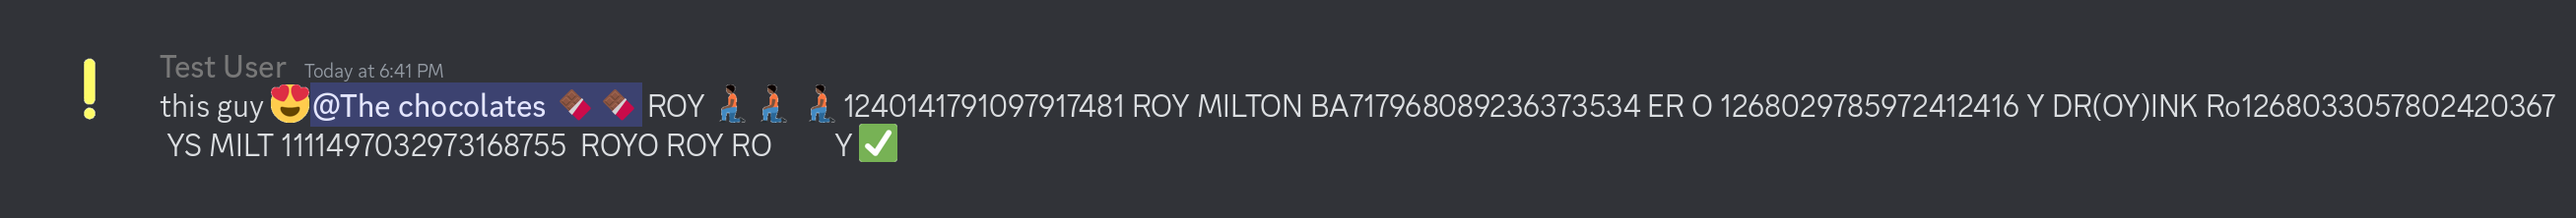
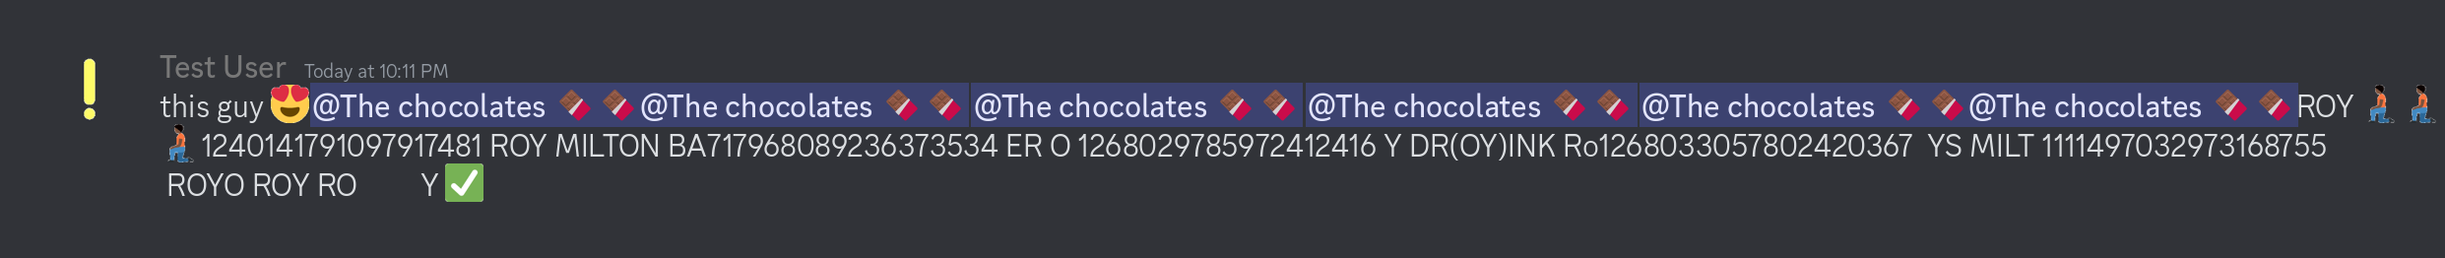
roy memory command

Changed region(s): [[0.031, 0.2162, 1.0, 0.7838]]

diff --git a/src/image_generator.py b/src/image_generator.py
@@ -45,12 +45,16 @@ def generate_message_img(message, user, avatar, color, pinged_names, custom_emoj
                 e_pos = word.find(custom_emoji_ids[emoji_i]) if len(custom_emoji_ids) > emoji_i else -1
                 n_pos = word.find(pinged_names[name_i]) if len(pinged_names) > name_i else -1
                 if (n_pos < e_pos and n_pos != -1) or (e_pos == -1 and n_pos != -1):
+                    # name appears first
                     message_strs.append(word[0:n_pos])
                     message_strs.append(pinged_names[name_i])
-                    len_msg += word[0:n_pos] + pinged_names[name_i]
+                    len_msg += word[0:n_pos]
+                    # Simpler to use this function to add the length than it would be to mess with fonts and stuff later
+                    _, _, len_msg = emoji_manager.separate_emoji(pinged_names[name_i], "", len_msg)
                     word = word[n_pos + len(pinged_names[name_i]):]
                     name_i += 1
                 else:
+                    # emoji appears first
                     message_strs.append(word[0:e_pos])
                     message_strs.append(custom_emoji_ids[emoji_i])
                     if client != None:
@@ -215,5 +219,5 @@ def generate_message_img(message, user, avatar, color, pinged_names, custom_emoj
             message_img.save(img_file)
     
 if TEST_MODE:
-    generate_message_img("this guy 😍 @The\u200bchocolates\u200b🍫🍫 ROY 🧎🏿🧎🏿 🧎🏿 1240141791097917481 ROY MILTON BA717968089236373534 ER O 1268029785972412416 Y DR(OY)INK Ro1268033057802420367  YS MILT 1111497032973168755  ROYO ROY RO         Y ✅", "Test User", "https://cdn.discordapp.com/avatars/231186156757319680/109460aae45aef3221e7ebced37b3090.webp?size=128",
-                          None, ["@The\u200bchocolates\u200b🍫🍫"], ["1240141791097917481", "717968089236373534", "1268029785972412416", "1268033057802420367", "1111497032973168755"])
+    generate_message_img("this guy 😍 @The\u200bchocolates\u200b🍫🍫@The\u200bchocolates\u200b🍫🍫 @The\u200bchocolates\u200b🍫🍫 @The\u200bchocolates\u200b🍫🍫 @The\u200bchocolates\u200b🍫🍫@The\u200bchocolates\u200b🍫🍫ROY 🧎🏿🧎🏿 🧎🏿 1240141791097917481 ROY MILTON BA717968089236373534 ER O 1268029785972412416 Y DR(OY)INK Ro1268033057802420367  YS MILT 1111497032973168755  ROYO ROY RO         Y ✅", "Test User", "https://cdn.discordapp.com/avatars/231186156757319680/109460aae45aef3221e7ebced37b3090.webp?size=128",
+                          None, ["@The\u200bchocolates\u200b🍫🍫", "@The\u200bchocolates\u200b🍫🍫", "@The\u200bchocolates\u200b🍫🍫", "@The\u200bchocolates\u200b🍫🍫", "@The\u200bchocolates\u200b🍫🍫", "@The\u200bchocolates\u200b🍫🍫"], ["1240141791097917481", "717968089236373534", "1268029785972412416", "1268033057802420367", "1111497032973168755"])

diff --git a/src/commands/roymemory.py b/src/commands/roymemory.py
@@ -1,0 +1,52 @@
+from roy_counter import roy_count
+from discord import app_commands
+import discord
+import random
+import os
+
+def setup(tree: app_commands.CommandTree):
+    @tree.command(name="roymemory", description="Show a random roy moment from the past.")
+    @app_commands.describe(num="Roy number to show")
+    async def roymemory(interaction: discord.Interaction, num: int=0):
+        if num < 0 or num > roy_count:
+            await interaction.response.send_message(f"Invalid roy number. Current roy number is {roy_count}", ephemeral=True)
+            return
+        rnum = random.randint(142, roy_count) if num == 0 else num
+        path = os.getcwd()
+        msg_path = f"/message-imgs/roy-{rnum}"
+        pic_path = f"/downloads/attachment-{rnum}"
+
+        try:
+            # Switched from jpeg to png at 492
+            if rnum > 492:
+                if os.path.exists(path + msg_path + ".png"):
+                    await interaction.response.send_message(f"Roy #{rnum}", file=discord.File(path + msg_path + ".png"))
+                else:
+                    raise Exception("No message file")
+            else:
+                if os.path.exists(path + msg_path + ".jpeg"):
+                    await interaction.response.send_message(f"Roy #{rnum}", file=discord.File(path + msg_path + ".jpeg"))
+                else:
+                    raise Exception("No message file")
+            print(f"Sending roy #{rnum}")
+        except Exception as e:
+            print(e)
+            print(f"No message image for roy #{rnum}, trying gif/image.")
+            try:
+                files = os.listdir(path + "/downloads")
+                for file in files:
+                    fname, ext = os.path.splitext(file)
+                    if fname == f"attachment-{rnum}":
+                        if ext == ".gif" and rnum < 1527:
+                            continue
+                        else:
+                            await interaction.response.send_message(f"Roy #{rnum}", file=discord.File(f"{path}{pic_path}{ext}"))
+                            print(f"Sending roy #{rnum}")
+                            return
+                print(f"No file found for roy {rnum}")
+                await interaction.response.send_message(f"Roy #{rnum} is missing.", ephemeral=True)
+            except Exception as e:
+                print(f"Nothing found for roy #{rnum}.")
+                print(e)
+
+    print("roymemory added")

diff --git a/src/main.py b/src/main.py
@@ -1,8 +1,10 @@
+import os
 import discord
 import logging
 import asyncio
+import importlib
 import roy_counter
-from discord import TextChannel, abc
+from discord import TextChannel, abc, app_commands
 from image_circler import generate_roy_encoding
 from handlers import messages
 from handlers.messages import q
@@ -14,6 +16,7 @@ intents.message_content = True
 intents.members = True
 
 client = discord.Client(intents=intents)
+command_tree = app_commands.CommandTree(client=client)
 logger = logging.FileHandler(filename="logs/discord.log", encoding="utf-8", mode="w")
 
 def convert_channel(channel: abc.GuildChannel) -> TextChannel:
@@ -45,6 +48,7 @@ async def check_replies(queue):
 
 @client.event
 async def on_ready():
+    await command_tree.sync()
     generate_roy_encoding()
     await ready.handle_ready(client)
     task = asyncio.create_task(check_replies(q))
@@ -53,5 +57,10 @@ async def on_ready():
 @client.event
 async def on_message(message):
     await messages.handle_message(client, message)
+
+for file in os.listdir("./src/commands"):
+    if file.endswith(".py"):
+        module = importlib.import_module(f"commands.{file[:-3]}")
+        module.setup(command_tree)
 
 client.run(secret_token.secret_token, log_handler=logger)

diff --git a/src/handlers/messages.py b/src/handlers/messages.py
@@ -35,8 +35,6 @@ async def handle_message(client, message):
                 p = multiprocessing.Process(target=check_image, args=(q, path, message.id, message.channel.id))
                 p.start()
 
-    await secret_box.secret_check(client, message)
-
     original = message.content
     pings = re.findall(r"<@\d+>", original)
     roy_pinged = False
@@ -62,6 +60,8 @@ async def handle_message(client, message):
         id = id[:-1]
         emoji_ids.append(id)
         original = original.replace(emoji, id)
+
+    await secret_box.secret_check(client, message, pinged_names, emoji_ids)
         
     contents = original.lower().replace(" ", "")
     contents = re.sub(r"[^(a-z|A-Z)]", "", contents)
